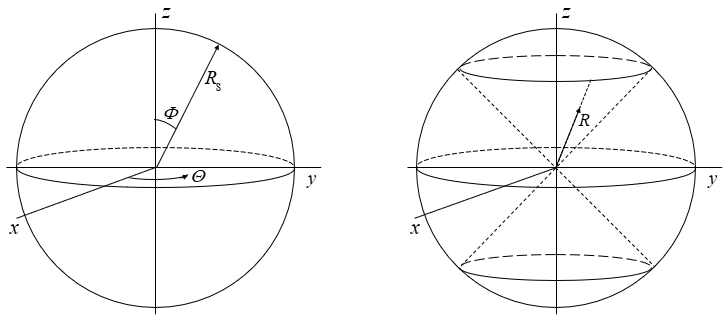
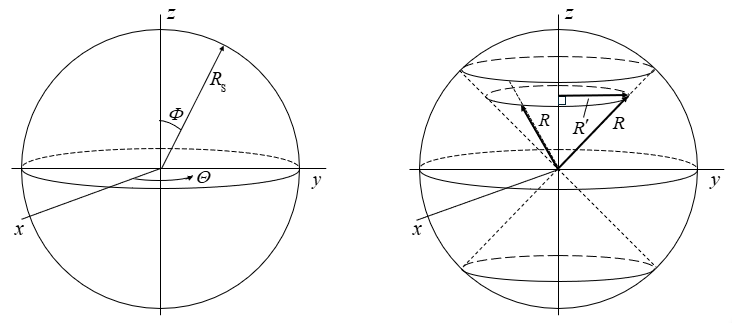
Add files via upload
8-19-2026 Update all for Nomenclature

diff --git a/framework.html b/framework.html
@@ -47,8 +47,6 @@
   <!-- PLACEHOLDER: general introductory slide goes here — not yet written -->
   <p class="placeholder-note">[Introductory section — in progress]</p>
 
-  <div id="nomenclature-widget"></div>
-
   <h2>Reference Frames</h2>
   <p>
     Gravitational fields generated from a single body have a spherically radiated force.
@@ -70,9 +68,23 @@
     common origin.
   </p>
   <figure class="figure">
-    <img src="fig1-conic-frame.png" alt="Conic reference frame within a spherical field, showing apex, radius R, and angles Phi and Theta">
+    <img src="fig1-conic-frame.png" alt="Conic reference frame within a spherical field, showing apex, radius R, angles Phi and Theta, and the perpendicular component R prime">
     <figcaption>Fig. F-1 — Conic Reference Frame in a Spherical Coordinate System.</figcaption>
   </figure>
+  <p>
+    The right-hand panel of Fig. F-1 also introduces \(R'\), the component of \(R\)
+    perpendicular to the cone's \(z\)-axis. Dropping a perpendicular from a satellite
+    position on the cone to the axis fixes a point on the axis; the segment from that
+    point out to the satellite, at a right angle to the axis, is \(R'\), while the segment
+    remaining along the axis is the corresponding axial component of \(R\). Because every
+    point on a given circle of latitude on the cone lies the same slant distance from the
+    apex, \(R\) itself is unchanged as the satellite moves around that circle, even though
+    its perpendicular component \(R'\) sweeps out the full circle with it &mdash; the two
+    equal-length \(R\) vectors in Fig. F-1 illustrate this for two positions on the same
+    circle. This decomposition of \(R\) into an axial part and \(R'\) is what reappears in
+    the general reference relation \(R^{2} = r^{2} + 2a(r - p) + R'^{2}\) taken up in the
+    Commonality and Elliptical sections.
+  </p>
 
   <h2>Rectilinear trajectories</h2>
   <p>

diff --git a/commonality.html b/commonality.html
@@ -6,6 +6,7 @@
 <meta name="viewport" content="width=device-width, initial-scale=1.0">
 <title>Commonality — Orbit-Mech</title>
 <link rel="stylesheet" href="style.css">
+<link rel="stylesheet" href="nomenclature.css">
 <script>
   MathJax = {
     tex: {
@@ -368,5 +369,7 @@
 <footer>
   D. H. May &middot; Orbit-Mech research site &middot; updated as work progresses
 </footer>
+<script src="nomenclature-data.js"></script>
+<script src="nomenclature-widget.js"></script>
 </body>
 </html>

diff --git a/elliptical.html b/elliptical.html
@@ -5,6 +5,7 @@
 <meta name="viewport" content="width=device-width, initial-scale=1.0">
 <title>Elliptical Orbits — Orbit-Mech</title>
 <link rel="stylesheet" href="style.css">
+<link rel="stylesheet" href="nomenclature.css">
 <script>
   MathJax = {
     tex: {
@@ -188,5 +189,7 @@
 <footer>
   D. H. May · Orbit-Mech research site · updated as work progresses
 </footer>
+<script src="nomenclature-data.js"></script>
+<script src="nomenclature-widget.js"></script>
 </body>
 </html>

diff --git a/background.html b/background.html
@@ -5,6 +5,7 @@
 <meta name="viewport" content="width=device-width, initial-scale=1.0">
 <title>Background — Orbit-Mech</title>
 <link rel="stylesheet" href="style.css">
+<link rel="stylesheet" href="nomenclature.css">
 </head>
 <body>
 <header>
@@ -49,5 +50,7 @@
 <footer>
   D. H. May · Orbit-Mech research site · updated as work progresses
 </footer>
+<script src="nomenclature-data.js"></script>
+<script src="nomenclature-widget.js"></script>
 </body>
 </html>
